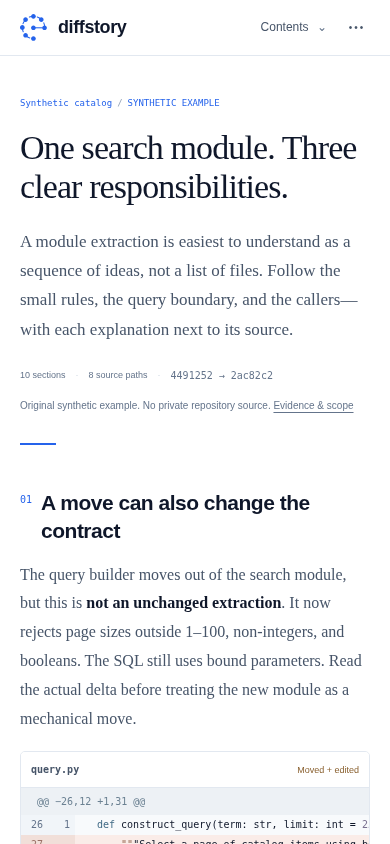
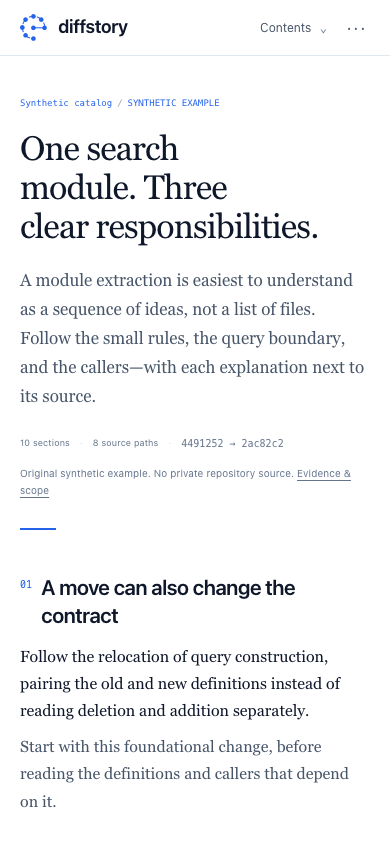
Fix CI checks for diff-first reader

diff --git a/tests/browser_smoke.py b/tests/browser_smoke.py
@@ -71,12 +71,20 @@ def main():
         code = section.locator(f'[data-changes~="{change("parse_tags")["id"]}"]')
         code.scroll_into_view_if_needed()
         page.wait_for_function('(id)=>document.getElementById(id).dataset.loaded === "true"', arg=code.get_attribute('id'))
-        check('return tags' in code.inner_text(), 'actual implementation readable')
+        check(
+            code.locator('.code-line.delete').count() > 0
+            and code.locator('.code-line.add').count() > 0,
+            'paired diff is the default view',
+        )
         code.locator('[data-switch]').click(no_wait_after=True)
-        check(code.locator('.code-line.delete').count() > 0 and code.locator('.code-line.add').count() > 0, 'inline paired diff')
+        check('return tags' in code.inner_text(), 'definition view shows the implementation')
         check(page.locator('.story-section').count() == 10, 'changing code view does not navigate')
         code.locator('[data-switch]').click(no_wait_after=True)
-        check('return tags' in code.inner_text(), 'return to definition')
+        check(
+            code.locator('.code-line.delete').count() > 0
+            and code.locator('.code-line.add').count() > 0,
+            'return to paired diff',
+        )
 
         large = page.locator('.story-section').first.locator('.code-block').first
         large.scroll_into_view_if_needed(); page.wait_for_timeout(100)

diff --git a/tests/test_narrative.py b/tests/test_narrative.py
@@ -97,7 +97,12 @@ class NarrativeTests(unittest.TestCase):
         self.assertEqual(generated["generation"]["verification"], "unverified")
         self.assertEqual(generated["generation"]["base_sha"], report["meta"]["base_sha"])
         self.assertIn("Model-generated narration · unverified.", render(generated))
-        self.assertIn("Model generated · unverified", render(generated))
+        self.assertTrue(
+            all(
+                group["narrative"]["provenance"] == "model-generated · unverified"
+                for group in generated["groups"]
+            )
+        )
         saved = json.loads(json.dumps(generated))
         self.assertIn("Model-generated narration · unverified.", render(saved))
 
